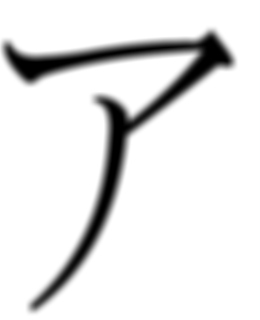
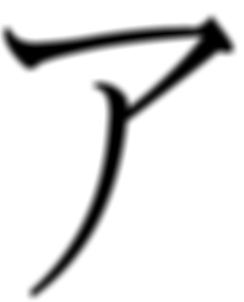
Cover Image is now scaling

Changed region(s): [[0.0, 0.0298, 0.9754, 0.2682], [0.0861, 0.2384, 0.5451, 1.0]]

diff --git a/qml/cover/CoverPage.qml b/qml/cover/CoverPage.qml
@@ -34,6 +34,9 @@ import Sailfish.Silica 1.0
 CoverBackground {
     Image {
         id: coverImage
+        height: parent.height
+        width: parent.width
+        fillMode: Image.PreserveAspectFit
         source: "cover.png"
     }
     Label {
@@ -42,5 +45,3 @@ CoverBackground {
         text: "Katakana"
     }
 }
-
-
